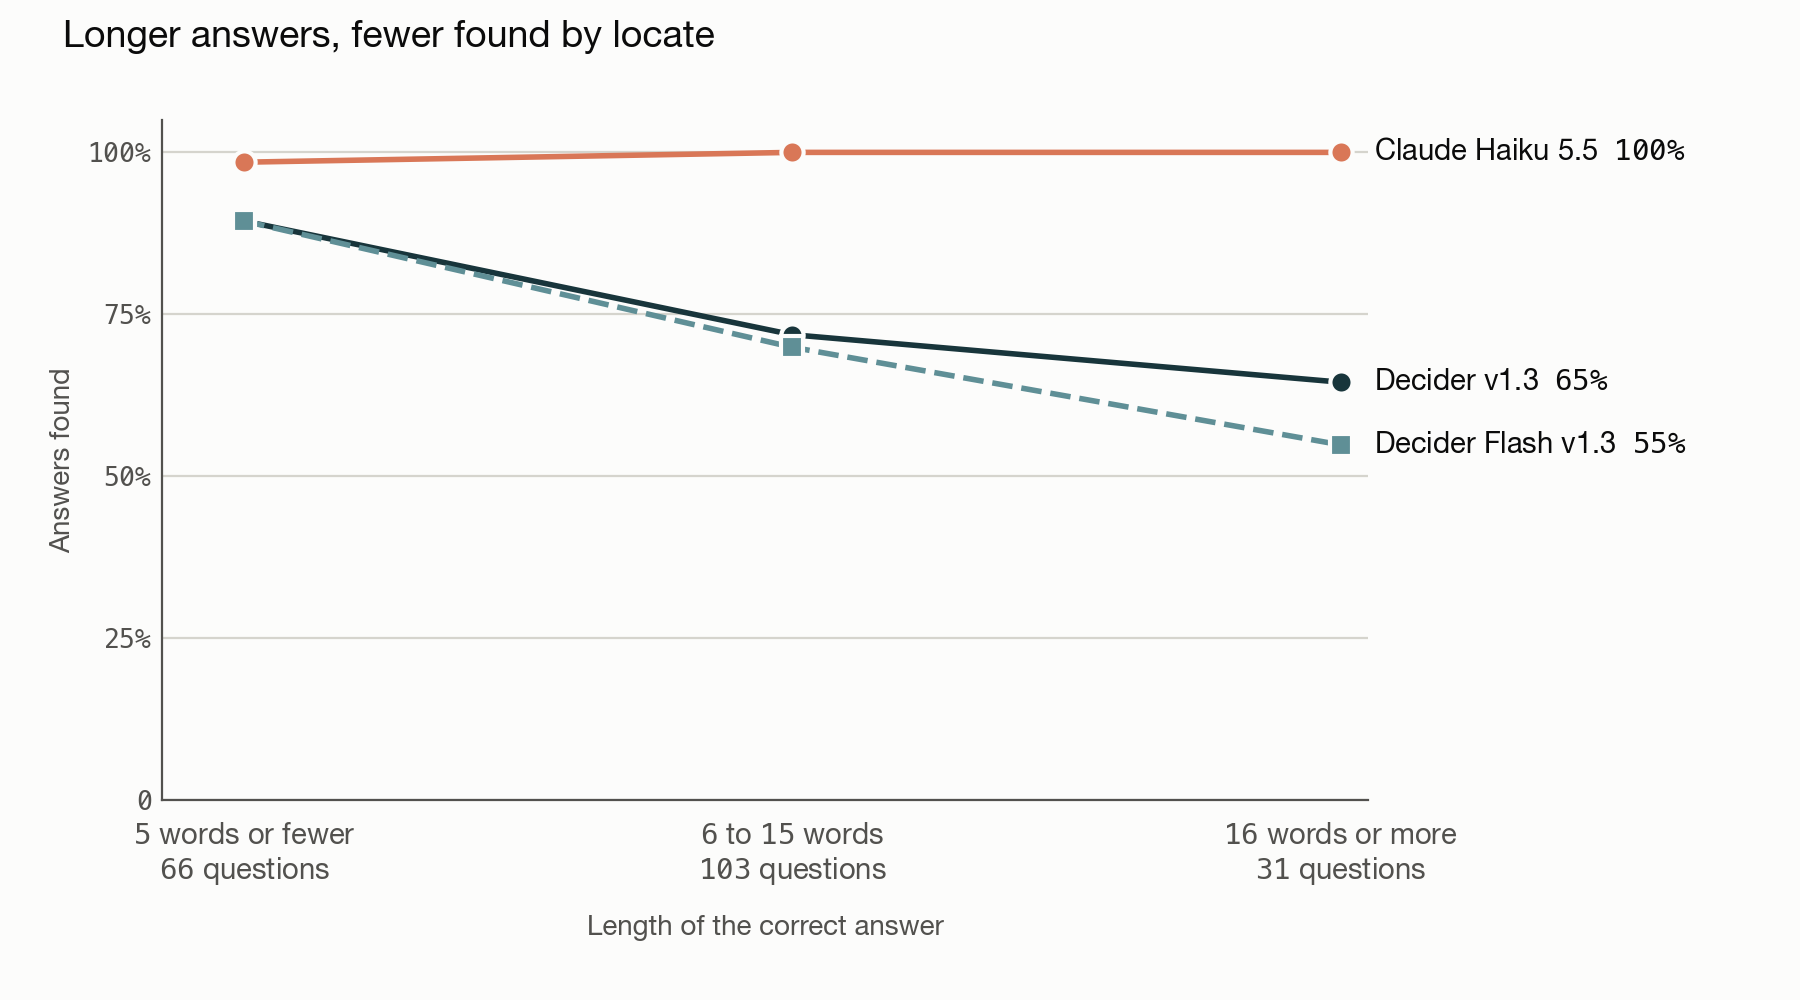
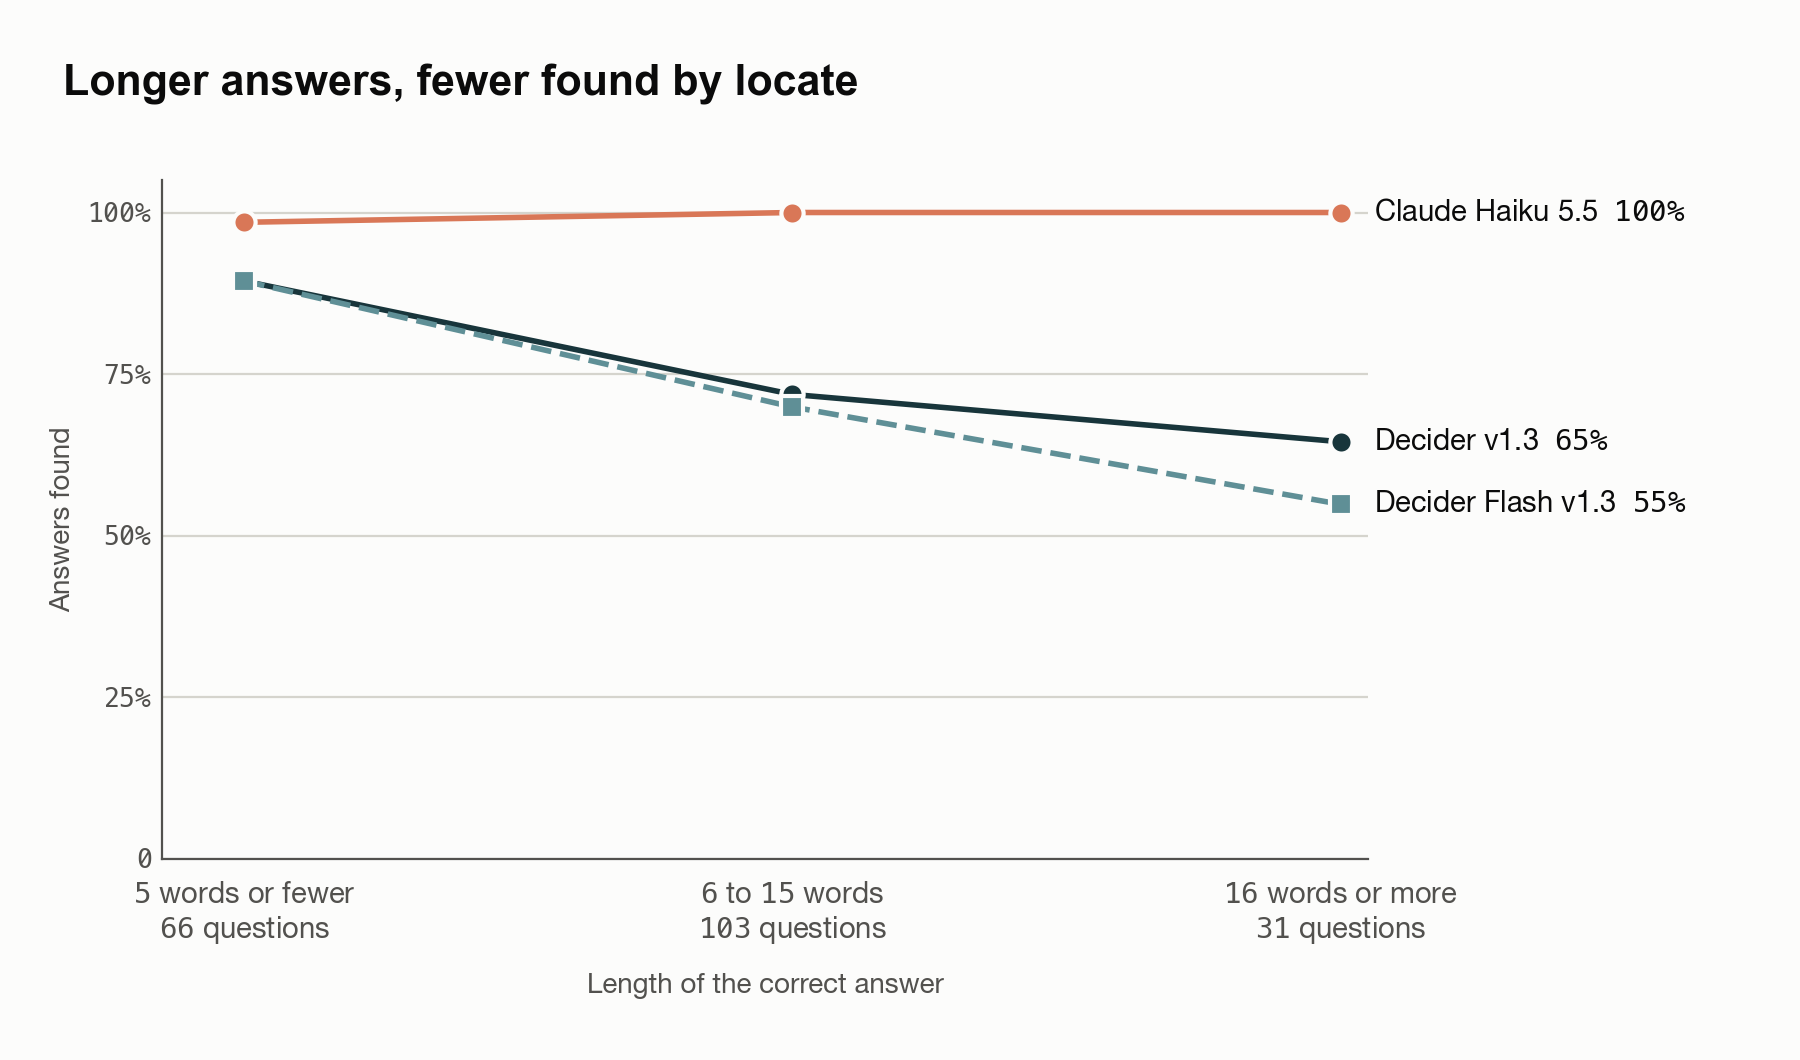
Charts: bold, larger titles with more space above

diff --git a/src/make_combo_charts.py b/src/make_combo_charts.py
@@ -101,16 +101,20 @@ def clean(ax):
         side.set_visible(False)
 
 
-def mono(text, bold=False):
+TITLE = {"fontsize": 15.5, "fontweight": "bold", "fontfamily": "Arial"}  # Helvetica Neue has no bold here
+TITLE_Y = 0.94  # leaves white space above the title
+
+
+def mono(text, bold=False, title=False):
     """Put every number in the text in a mono font (Menlo), leaving the words alone."""
-    command = "mathsf" if bold else "mathtt"  # main() points these at Menlo bold and Menlo
+    command = "mathbf" if title else "mathsf" if bold else "mathtt"  # main() points these at Menlo bold and Menlo
     def wrap(match):
         inner = match.group().replace("$", r"\$").replace("%", r"\%").replace(",", "{,}")
         return "$\\%s{%s}$" % (command, inner)
     return re.sub(r"\$?\d+(?:[.,]\d+)*%?", wrap, text)
 
 
-def outcomes_chart(rows, path, title, height=5.0, top=0.89, bottom=0.13):
+def outcomes_chart(rows, path, title, height=5.3, top=0.84, bottom=0.125):
     fig, ax = plt.subplots(figsize=(9, height), dpi=200, facecolor=SURFACE)
     for i, row in enumerate(rows):
         y, left, thin = len(rows) - 1 - i, 0, []
@@ -143,15 +147,15 @@ def outcomes_chart(rows, path, title, height=5.0, top=0.89, bottom=0.13):
     ax.set_xticks([0, 50, 100, 150, 200])
     ax.set_xticklabels([mono(str(v)) for v in (0, 50, 100, 150, 200)])
     ax.set_xlabel(mono("Questions (out of 200)"), color=MUTED, fontsize=10)
-    fig.suptitle(mono(title, bold=True),
-                 x=0.035, ha="left", fontsize=13.5, fontweight="bold", color=INK)
+    fig.suptitle(mono(title, title=True),
+                 x=0.035, y=TITLE_Y, ha="left", va="top", color=INK, **TITLE)
     fig.subplots_adjust(left=0.035, right=0.965, top=top, bottom=bottom)
     fig.savefig(path, facecolor=SURFACE)
 
 
 def cost_time_chart(rows):
     flash_cost, flash_seconds = flash_share_of_combo()
-    fig, axes = plt.subplots(1, 2, figsize=(9, 4.6), dpi=200, facecolor=SURFACE)
+    fig, axes = plt.subplots(1, 2, figsize=(9, 4.9), dpi=200, facecolor=SURFACE)
     panels = [
         ("Cost", "cost", 1000 / 200, lambda v: f"${v:.2f}", "US dollars"),
         ("Total time, one question at a time", "seconds", 1000 / 200 / 60, lambda v: f"{v:.0f} min", "Minutes"),
@@ -181,11 +185,11 @@ def cost_time_chart(rows):
         ax.set_ylim(-0.5, len(rows) - 0.15)
         ax.set_xticks([])
         ax.set_title(title, loc="left", fontsize=11, color=MUTED, pad=8)
-    fig.suptitle(mono("Cost and time to answer 1,000 questions", bold=True),
-                 x=0.035, ha="left", fontsize=13.5, fontweight="bold", color=INK)
+    fig.suptitle(mono("Cost and time to answer 1,000 questions", title=True),
+                 x=0.035, y=TITLE_Y, ha="left", va="top", color=INK, **TITLE)
     fig.text(0.035, 0.03, mono("Scaled up from 200 questions. In the combo bar, the green part is Decider Flash's share and the orange part is Haiku's."),
              fontsize=9, color=MUTED)
-    fig.subplots_adjust(left=0.035, right=0.975, top=0.82, bottom=0.1, wspace=0.12)
+    fig.subplots_adjust(left=0.035, right=0.975, top=0.77, bottom=0.095, wspace=0.12)
     fig.savefig("results/charts/cost_time.png", facecolor=SURFACE)
     for name, values in printed.items():
         print(f"{name}: {' | '.join(values)}")
@@ -196,7 +200,7 @@ def length_chart(rows):
     groups = [("5 words or fewer", 0, 5), ("6 to 15 words", 6, 15), ("16 words or more", 16, 10**6)]
     styles = [("Claude Haiku 5.5", ANTHROPIC_ORANGE, "-", "o"), ("Decider v1.3", PERPLEXITY_GREEN, "-", "o"),
               ("Decider Flash v1.3", FLASH_GREEN, "--", "s")]
-    fig, ax = plt.subplots(figsize=(9, 5.0), dpi=200, facecolor=SURFACE)
+    fig, ax = plt.subplots(figsize=(9, 5.3), dpi=200, facecolor=SURFACE)
     sizes = []
     for row, (name, colour, dash, marker) in zip(rows[:3], styles):
         group = row["parts"][0][1]
@@ -229,18 +233,19 @@ def length_chart(rows):
     ax.set_xlabel("Length of the correct answer", color=MUTED, fontsize=10, labelpad=10)
     ax.set_ylabel("Answers found", color=MUTED, fontsize=10)
     fig.suptitle("Longer answers, fewer found by locate",
-                 x=0.035, ha="left", fontsize=13.5, fontweight="bold", color=INK)
-    fig.subplots_adjust(left=0.09, right=0.76, top=0.88, bottom=0.2)
+                 x=0.035, y=TITLE_Y, ha="left", va="top", color=INK, **TITLE)
+    fig.subplots_adjust(left=0.09, right=0.76, top=0.83, bottom=0.19)
     fig.savefig("results/charts/answer_length.png", facecolor=SURFACE)
 
 
 def main() -> None:
     plt.rcParams.update({"font.family": "Helvetica Neue", "font.size": 11,
-                         "mathtext.fontset": "custom", "mathtext.tt": "Menlo", "mathtext.sf": "Menlo:bold"})
+                         "mathtext.fontset": "custom", "mathtext.tt": "Menlo", "mathtext.sf": "Menlo:bold",
+                         "mathtext.bf": "DejaVu Sans Mono:bold"})
     rows = load()
     Path("results/charts").mkdir(parents=True, exist_ok=True)
     title = "What happened to 200 questions about 25 new research papers"
-    outcomes_chart(rows[:3], "results/charts/outcomes_second_run.png", title, height=4.0, top=0.87, bottom=0.16)
+    outcomes_chart(rows[:3], "results/charts/outcomes_second_run.png", title, height=4.3, top=0.81, bottom=0.15)
     outcomes_chart(rows, "results/charts/outcomes_combo.png", "How each approach answered the same 200 questions")
     cost_time_chart(rows)
     length_chart(rows)

diff --git a/src/make_cover.py b/src/make_cover.py
@@ -30,8 +30,6 @@ def main() -> None:
         return sum(float(r["cost"]) for _, g in row["parts"] for r in g) / 200 * 1000
 
     combo_right = sum(right(g) for _, g in combo["parts"])
-    share = cost(combo) / cost(haiku)
-    assert 0.30 <= share <= 0.36, share  # the headline says "a third"
 
     fig = plt.figure(figsize=(12, 6.3), dpi=200, facecolor=SURFACE)
     ax = fig.add_axes([0.06, 0.07, 0.88, 0.52])
@@ -40,8 +38,8 @@ def main() -> None:
     ax.set_xlim(0, 200)
     ax.set_ylim(-0.45, 1.75)
 
-    fig.text(0.06, 0.845, f"{combo_right} of 200 correct,", fontsize=50, fontweight="bold", fontfamily="Avenir Next", color=INK, ha="left", va="center")
-    fig.text(0.06, 0.70, "at a third of the cost", fontsize=50, fontweight="bold", fontfamily="Avenir Next", color=INK, ha="left", va="center")
+    for y, line in ((0.845, "Answer retrieval test"), (0.70, "Decider Flash v1.3 w/ Locate")):
+        fig.text(0.06, y, line, fontsize=46, fontweight="bold", fontfamily="Avenir Next", color=INK, ha="left", va="center")
 
     layout = [
         (1, haiku, "Claude Haiku 5.5 alone", lambda company, n: f"{n} correct"),
